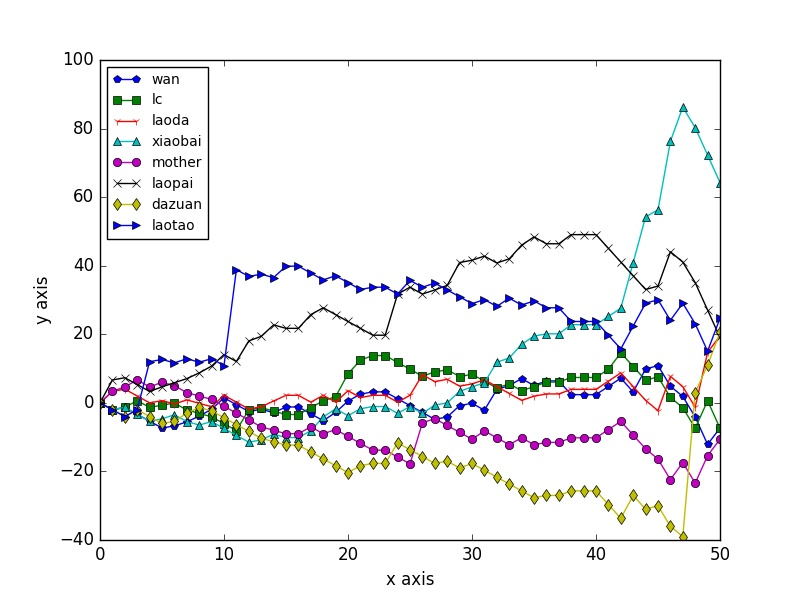
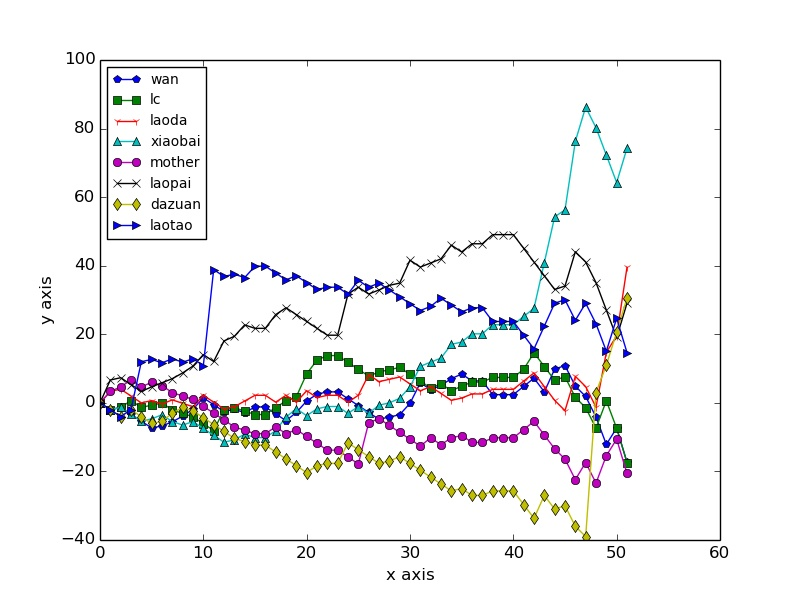
update

diff --git a/generate_default_match_data.py b/generate_default_match_data.py
@@ -31,11 +31,11 @@ def generate_default_match_data(teamA, teamB, date, time, handicap1, handicap2, 
 
 if __name__ == "__main__":
     teamA = "France"
-    teamB = "Germany"
-    date = "20160708"
+    teamB = "Portugal"
+    date = "20160711"
     time = "03"
-    handicap1 = 0
-    handicap2 = 0
+    handicap1 = -0.5
+    handicap2 = -0.5
     players = loader.loadPlayers()
     generate_default_match_data(teamA, teamB, date, time, handicap1, handicap2, players)
 

diff --git a/README.md b/README.md
@@ -1,23 +1,43 @@
 # E cup guess competition report
 ## real-time ranking
-2016-07-08 04:54:57
+2016-07-11 13:50:45
 
 |rank|name|score|win|loss|
 |:---:|:---:|:---:|:---:|:---:|
-|1|xiaobai|64.27|55%|28%|
-|2|laotao|24.67|36%|47%|
-|3|dazuan|20.60|29%|54%|
-|4|laoda|19.53|46%|37%|
-|5|laopai|19.07|47%|36%|
-|6|wan|-7.33|43%|40%|
-|7|lc|-7.40|44%|39%|
-|8|mother|-10.60|33%|50%|
+|1|xiaobai|74.27|56%|27%|
+|2|laoda|39.53|47%|36%|
+|3|dazuan|30.60|30%|53%|
+|4|laopai|29.07|48%|35%|
+|5|laotao|14.67|35%|48%|
+|6|wan|-17.33|42%|41%|
+|7|lc|-17.40|43%|40%|
+|8|mother|-20.60|32%|51%|
 
 ## Pond
-496.20
+486.20
 
 ## History
 ![image](https://github.com/Anserw/E_Cup/blob/master/plot.jpg)
+### 2016071103 France 0 : 0 Portugal
+- handicap: -0.5
+- scorer: laotao
+- owners:
+ - France: laotao
+ - Portugal: laoda
+
+
+|name|guess|score change|
+|:---:|:---:|:---:|
+|wan|France|-10.00|
+|lc|France|-10.00|
+|laoda|Portugal|20.00|
+|xiaobai|Portugal|10.00|
+|mother|France|-10.00|
+|laopai|Portugal|10.00|
+|dazuan|Portugal|10.00|
+|laotao|France|-10.00|
+|Pond|..|-10.00|
+
 ### 2016070803 France 2 : 0 Germany
 - handicap: 0
 - scorer: laotao
@@ -298,26 +318,6 @@
 |laotao|Poland|0.00|
 |Pond|..|0.00|
 
-### 2016062303 Italy 0 : 1 Ireland
-- handicap: -0.5 / 0
-- scorer: laotao
-- owners:
- - Italy: xiaobai
- - Ireland: laopai
-
-
-|name|guess|score change|
-|:---:|:---:|:---:|
-|wan|Italy|-2.00|
-|lc|Ireland|1.20|
-|laoda|Ireland|1.20|
-|xiaobai|Ireland|2.40|
-|mother|Italy|-2.00|
-|laopai|Ireland|2.40|
-|dazuan|Italy|-2.00|
-|laotao|Ireland|1.20|
-|Pond|..|-2.40|
-
 ### 2016062303 Sweden 0 : 1 Belgium
 - handicap: 0.5
 - scorer: laotao
@@ -337,6 +337,26 @@
 |dazuan|Belgium|0.67|
 |laotao|Sweden|-2.00|
 |Pond|..|-1.33|
+
+### 2016062303 Italy 0 : 1 Ireland
+- handicap: -0.5 / 0
+- scorer: laotao
+- owners:
+ - Italy: xiaobai
+ - Ireland: laopai
+
+
+|name|guess|score change|
+|:---:|:---:|:---:|
+|wan|Italy|-2.00|
+|lc|Ireland|1.20|
+|laoda|Ireland|1.20|
+|xiaobai|Ireland|2.40|
+|mother|Italy|-2.00|
+|laopai|Ireland|2.40|
+|dazuan|Italy|-2.00|
+|laotao|Ireland|1.20|
+|Pond|..|-2.40|
 
 ### 2016062300 Hungary 3 : 3 Portugal
 - handicap: 1.5 / 1
@@ -378,26 +398,6 @@
 |laotao|Austria|-2.00|
 |Pond|..|-4.00|
 
-### 2016062203 Croatia 2 : 1 Spain
-- handicap: 0.5
-- scorer: laotao
-- owners:
- - Croatia: mother
- - Spain: lc
-
-
-|name|guess|score change|
-|:---:|:---:|:---:|
-|wan|Spain|-2.00|
-|lc|Spain|-2.00|
-|laoda|Croatia|1.20|
-|xiaobai|Croatia|1.20|
-|mother|Croatia|2.40|
-|laopai|Croatia|1.20|
-|dazuan|Spain|-2.00|
-|laotao|Croatia|1.20|
-|Pond|..|-1.20|
-
 ### 2016062203 Czech 0 : 2 Turkey
 - handicap: 0.5 / 0
 - scorer: laotao
@@ -418,25 +418,25 @@
 |laotao|Czech|-2.00|
 |Pond|..|0.00|
 
-### 2016062200 NorthernIreland 0 : 1 Germany
-- handicap: 1.5
+### 2016062203 Croatia 2 : 1 Spain
+- handicap: 0.5
 - scorer: laotao
 - owners:
- - NorthernIreland: laopai
- - Germany: dazuan
+ - Croatia: mother
+ - Spain: lc
 
 
 |name|guess|score change|
 |:---:|:---:|:---:|
-|wan|NorthernIreland|3.33|
-|lc|Germany|-2.00|
-|laoda|Germany|-2.00|
-|xiaobai|NorthernIreland|3.33|
-|mother|Germany|-2.00|
-|laopai|NorthernIreland|6.67|
-|dazuan|Germany|-2.00|
-|laotao|Germany|-2.00|
-|Pond|..|-3.33|
+|wan|Spain|-2.00|
+|lc|Spain|-2.00|
+|laoda|Croatia|1.20|
+|xiaobai|Croatia|1.20|
+|mother|Croatia|2.40|
+|laopai|Croatia|1.20|
+|dazuan|Spain|-2.00|
+|laotao|Croatia|1.20|
+|Pond|..|-1.20|
 
 ### 2016062200 Ukraine 0 : 1 Poland
 - handicap: 0.5
@@ -457,6 +457,26 @@
 |dazuan|Poland|1.33|
 |laotao|Ukraine|-2.00|
 |Pond|..|-1.33|
+
+### 2016062200 NorthernIreland 0 : 1 Germany
+- handicap: 1.5
+- scorer: laotao
+- owners:
+ - NorthernIreland: laopai
+ - Germany: dazuan
+
+
+|name|guess|score change|
+|:---:|:---:|:---:|
+|wan|NorthernIreland|3.33|
+|lc|Germany|-2.00|
+|laoda|Germany|-2.00|
+|xiaobai|NorthernIreland|3.33|
+|mother|Germany|-2.00|
+|laopai|NorthernIreland|6.67|
+|dazuan|Germany|-2.00|
+|laotao|Germany|-2.00|
+|Pond|..|-3.33|
 
 ### 2016062103 Russia 0 : 3 Welsh
 - handicap: 0
